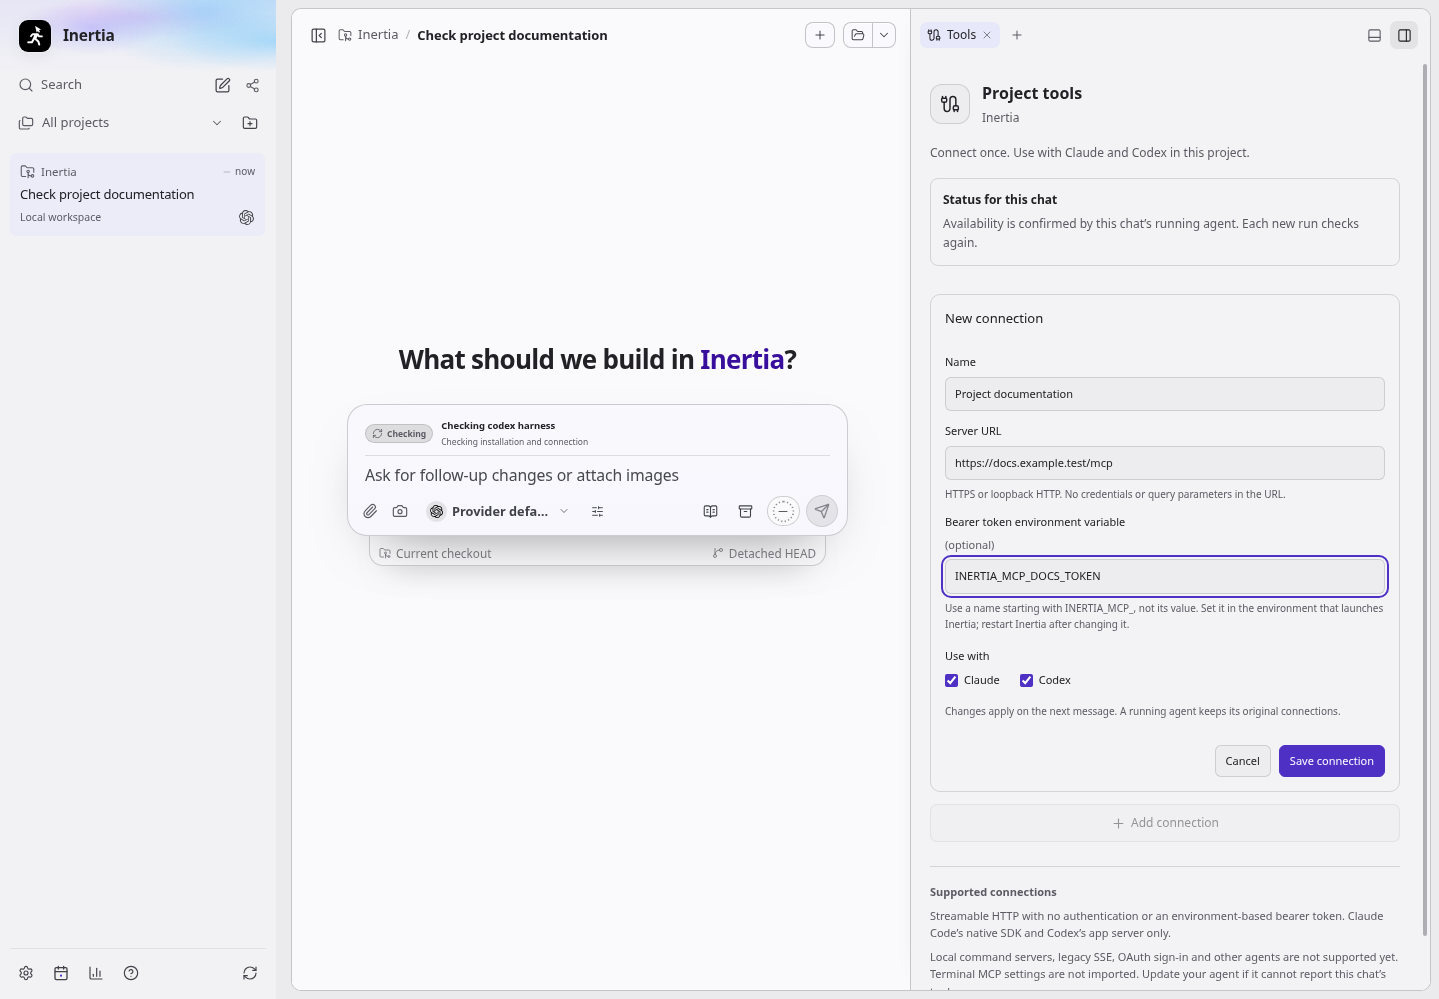
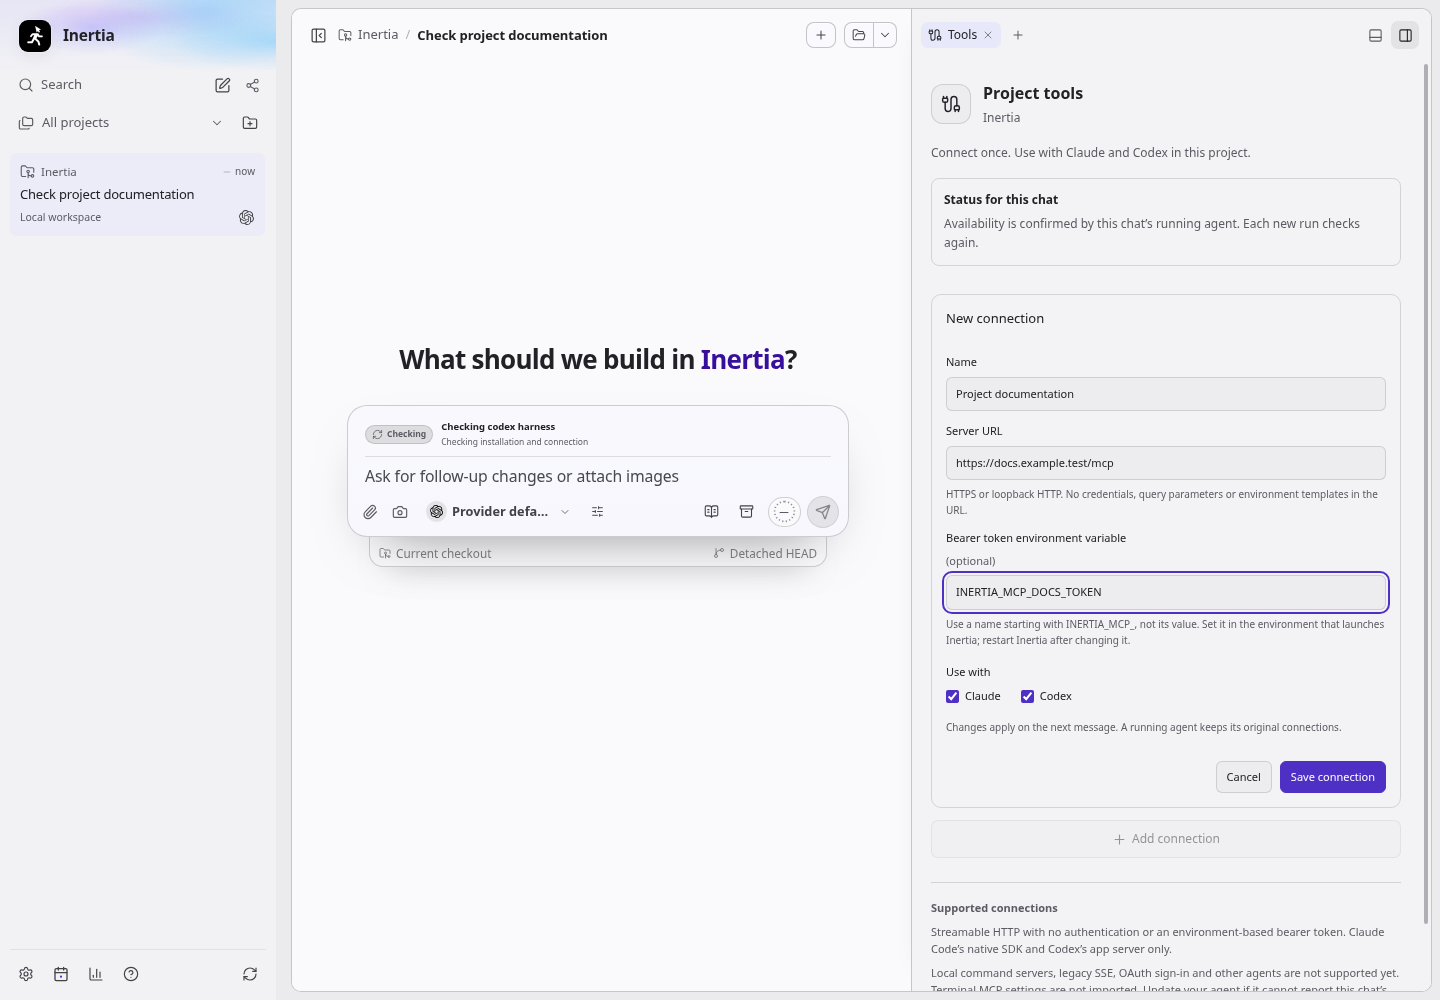
Refresh native configuration and state previews after credential hardening

diff --git a/docs/pr-evidence/project-tools/README.md b/docs/pr-evidence/project-tools/README.md
@@ -1,12 +1,13 @@
 Project Tools desktop evidence
 
-- `configure.png`: native Electron configuration panel.
+- `configure.png`: native Electron configuration panel captured from commit
+  `ca4861b2a3198d4e6d0639057c77fecdb9536489` at 1440 × 1000.
 - `live-preview.png` and `restart-preview.png`: the production ProjectToolsPanel
   and production theme CSS rendered in Electron 44.4.5 with deterministic state
-  fixtures, at 530 × 1040. These show renderer presentation for the available,
+  fixtures, at 530 × 1024. These show renderer presentation for the available,
   missing-authentication and changed-configuration states. Provider execution is
   covered separately by the protocol checks and native Electron scenario below.
-  Preview source: commit `8a2ec9f9a9f0f5b01b5333ff8de07487c6b084c1`.
+  Preview source: commit `ca4861b2a3198d4e6d0639057c77fecdb9536489`.
 - The feature-owned Electron scenario is `tests/e2e/project-tools.spec.ts`.
   It exercises the real renderer, IPC, database, credential broker and run lifecycle
   with a deterministic Codex app-server fixture, and attaches configuration,
